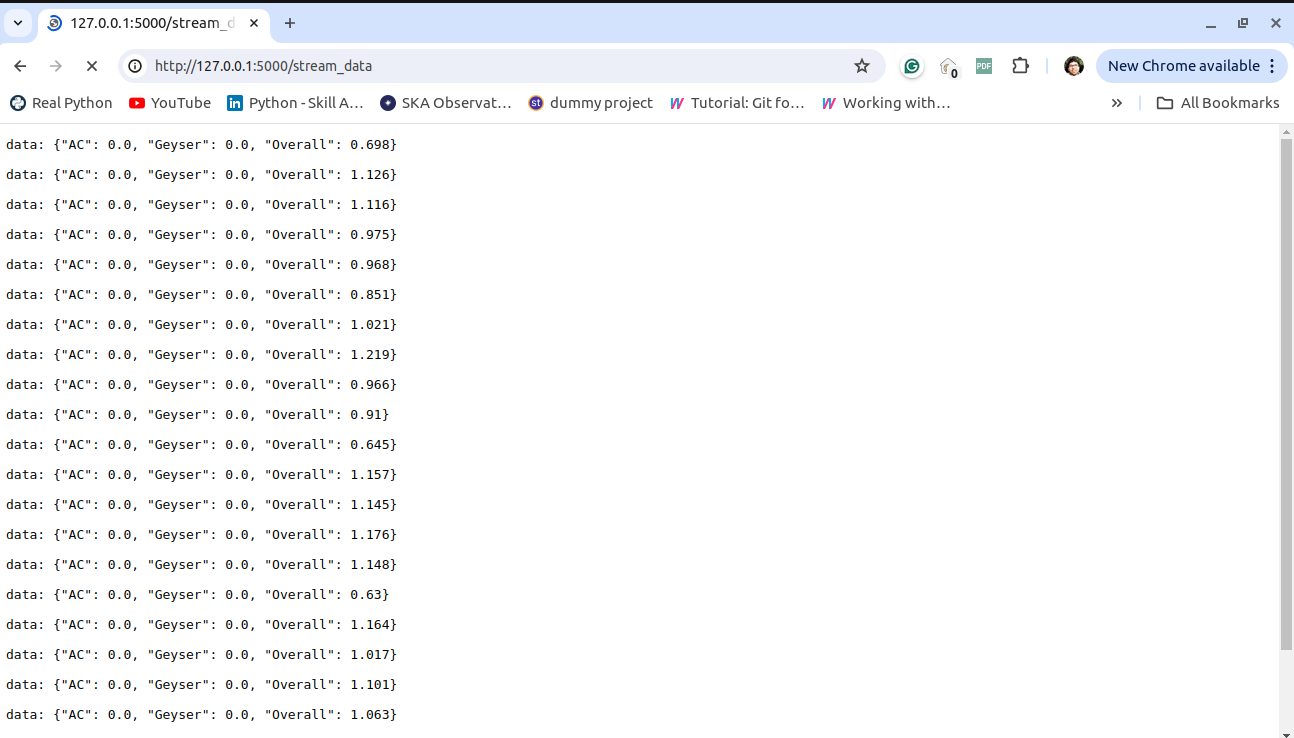
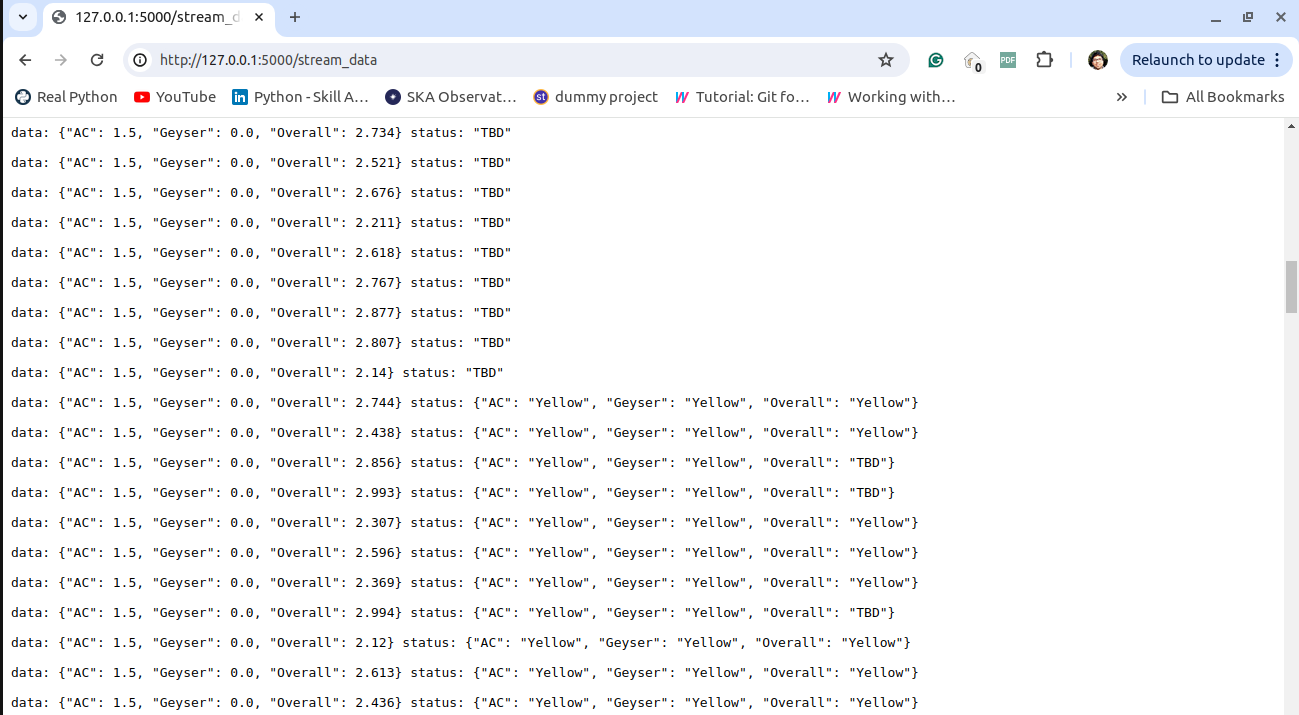
threading for stats calc and introduced status

diff --git a/app.py b/app.py
@@ -1,10 +1,10 @@
 from flask import Flask, request, Response, jsonify, redirect
-import subprocess
 import pandas as pd
 import numpy as np
 import time
 import json
 from scipy import stats
+import threading
 
 app = Flask(__name__)
 
@@ -16,67 +16,92 @@ data = pd.read_csv('server_data_homes/realistic_fake_energy_data_with_errors.csv
 # Load clean dataset as historical data for stats, outliers
 tmp = pd.read_csv('server_data_homes/realistic_fake_energy_data_without_errors.csv')
 
-# Global variables to store household and interval
+# Global variables to store household, interval, and stats_data
 current_household = None
 current_interval = None
+global_stats_data = None  # Initialize global stats_data
 
 def get_household_data(df, household):
-    """
-    Retrieves household-specific data from a DataFrame.
-
-    Parameters:
-    - df (pd.DataFrame): The DataFrame containing household data.
-    - household (str): The identifier for the household (e.g., 'A', 'B', 'C').
-
-    Returns:
-    - pd.DataFrame: Filtered DataFrame with columns for AC, Geyser, Overall.
-    """
     household_data = df[[f"{household}_AC", f"{household}_Geyser", f"{household}_Overall"]]
     household_data.columns = ['AC', 'Geyser', 'Overall']
     return household_data
 
-def stream_data():
-    """
-    Generator function to stream averaged household data.
+def calc_stats():
+    global global_stats_data
 
-    Yields:
-    - str: JSON-formatted string containing average values of AC, Geyser, Overall.
-    """
-    global start_index
-    household_data = get_household_data(data, current_household)
-    num_rows = len(household_data)
-    end_index = start_index + current_interval
-    while True:
-        recent_data = household_data.iloc[start_index:end_index]
+    clean_data = get_household_data(df=tmp, household=current_household)
+
+    q25 = clean_data.quantile(0.25)
+    median = clean_data.median()
+    q75 = clean_data.quantile(0.75)
+    iqr_data = clean_data[(clean_data >= q25) & (clean_data <= q75)].dropna()
+
+    if len(iqr_data) == 0:
+        global_stats_data = {'error': 'No valid data found for statistics calculation.'}
+        return
+
+    num_intervals = len(iqr_data) // current_interval
+
+    avg_values_list = []
+
+    for i in range(num_intervals):
+        start_idx = i * current_interval
+        end_idx = start_idx + current_interval
+        interval_data = iqr_data.iloc[start_idx:end_idx]
+        avg_values = interval_data.mean()
+        avg_values_list.append(avg_values)
+
+    average_sample = pd.DataFrame(avg_values_list, columns=['AC', 'Geyser', 'Overall'])
+
+    median_val = median.round(3).to_dict()
+    q25_val = q25.round(3).to_dict()
+    q75_val = q75.round(3).to_dict()
+
+    critical_values = {}
+    best_distributions = {}
+
+    for column_name in average_sample.columns:
+        column_data = average_sample[column_name]
         try:
-            average_values = recent_data.astype(float).mean().round(3).to_dict()
-            yield f"data: {json.dumps(average_values)}\n\n"
-        except (TypeError, ValueError):
-            yield f"data: {json.dumps({'error': 'Invalid data'})}\n\n"
-        finally:
-            if end_index >= num_rows:
-                end_index = 0  # Loop back to the beginning of the data
-            index = end_index
-            start_index = index
-            end_index = start_index + current_interval
+            best_distribution, best_params = fit_best_distribution(column_data)
+            best_distributions[column_name] = best_distribution.name if best_distribution is not None else None
+            if best_distribution is not None:
+                critical_value = best_distribution.ppf(0.99, *best_params)
+                critical_values[column_name] = round(critical_value, 3)
+            else:
+                critical_values[column_name] = None
+        except Exception as e:
+            global_stats_data = {'error': f"Error calculating statistics for {column_name}: {str(e)}"}
+            return
 
-            time.sleep(current_interval)
-            
+    global_stats_data = {
+        '25p': q25_val,
+        'median': median_val,
+        '75p': q75_val,
+        'rt_critical_value_0.01': critical_values,
+        'best_distribution': best_distributions
+    }
+
+def calc_stats_thread_func():
+
+    while global_stats_data is None:
+        try:
+            calc_stats()
+            time.sleep(300)  # Sleep for 5 minutes before recalculating
+        except Exception as e:
+            print(f"Error in calc_stats thread: {e}")
+            time.sleep(60)  # Retry every minute in case of error
+
+# Start the calc_stats thread on application startup
+calc_stats_thread = threading.Thread(target=calc_stats_thread_func)
+calc_stats_thread.start()
+
 @app.route('/', methods=['GET'])
 def run_st_app():
     return redirect("http://0.0.0.0:8501")
 
 @app.route('/stream_setup', methods=['POST'])
 def stream_setup():
-    """
-    Sets up streaming parameters (household, interval, and optionally start_index).
-
-    Expects JSON payload with 'household' and 'interval' parameters.
-    Optionally accepts 'start_index'.
-
-    Returns:
-    - json: Status message indicating success or error.
-    """
     global current_household, current_interval, start_index
     data = request.get_json()
     household = data.get('household')
@@ -103,16 +128,6 @@ def stream_setup():
     return jsonify({'status': 'Streaming setup successful'}), 200
 
 def fit_best_distribution(data):
-    """
-    Fits various statistical distributions to data and selects the best fit using the Kolmogorov-Smirnov test.
-
-    Parameters:
-    - data (pd.Series or pd.DataFrame): Data for which distributions are fitted.
-
-    Returns:
-    - scipy.stats.rv_continuous: Best-fit distribution.
-    - tuple: Parameters of the best-fit distribution.
-    """
     distributions = [stats.norm, stats.expon]  # Add more distributions as needed
     best_distribution = None
     best_p_value = np.inf
@@ -127,98 +142,54 @@ def fit_best_distribution(data):
             best_params = params
 
     return best_distribution, best_params
-    
+
 @app.route('/stream_qstats', methods=['GET'])
-def stream_stats():
-    """
-    Computes and streams statistics (median, std_dev, critical_value_0.01) for the current household.
+def stream_stats_route():
 
-    Returns:
-    - json: JSON object containing computed statistics or an error message.
-    """
-    clean_data = get_household_data(df=tmp, household=current_household)
+    if global_stats_data is not None:
+        return jsonify(global_stats_data)
 
-    # Select data between 25th and 75th percentiles
-    q25 = clean_data.quantile(0.25)
-    median = clean_data.median()
-    q75 = clean_data.quantile(0.75)
-    iqr_data = clean_data[(clean_data >= q25) & (clean_data <= q75)].dropna()
+    return jsonify({'error': 'Statistics not yet calculated. Try again later.'}), 404
 
-    if len(iqr_data) == 0:
-        return jsonify({'error': 'No valid data found for statistics calculation.'}), 404
+def stream_data():
+    global start_index
 
-    # Calculate the number of complete intervals in the data
-    num_intervals = len(iqr_data) // current_interval
+    household_data = get_household_data(data, current_household)
+    num_rows = len(household_data)
 
-    # Initialize lists to store average values
-    avg_values_list = []
-
-    # Iterate over each interval
-    for i in range(num_intervals):
-        # Calculate start and end indices for each interval
-        start_idx = i * current_interval
-        end_idx = start_idx + current_interval
-        
-        # Slice the interval data
-        interval_data = iqr_data.iloc[start_idx:end_idx]
-        
-        # Calculate average for each column
-        avg_values = interval_data.mean()
-        
-        # Append the averages to avg_values_list
-        avg_values_list.append(avg_values)
-
-    # Create a DataFrame from avg_values_list
-    average_sample = pd.DataFrame(avg_values_list, columns=['AC', 'Geyser', 'Overall'])
-    
-    # Calculate statistics
-    median_val = median.round(3).to_dict()
-    q25_val = q25.round(3).to_dict()
-    q75_val = q75.round(3).to_dict()
-    
-    # Initialize dictionaries to store results
-    critical_values = {}
-    best_distributions = {}
-
-    # Fit distributions and calculate critical values for each column separately
-    for column_name in average_sample.columns:
-        column_data = average_sample[column_name]
-        
-        try:
-            best_distribution, best_params = fit_best_distribution(column_data)
-            
-            # Store the best distribution name for the column
-            best_distributions[column_name] = best_distribution.name if best_distribution is not None else None
-            
-            # Calculate right-tailed critical region value at significance level of 0.01
-            if best_distribution is not None:
-                critical_value = best_distribution.ppf(0.99, *best_params)
-                critical_values[column_name] = round(critical_value, 3)
+    def status_checking(average_values, stats_data):
+        if stats_data is None:
+            return "TBD"
+        color = {}
+        for key, value in average_values.items():
+            if value < 0:
+                color[key] = "Red"
+            elif value < stats_data['25p'][key]:
+                color[key] = "Green"
+            elif value <= stats_data['75p'][key]:
+                color[key] = "Yellow"
+            elif value >= stats_data['rt_critical_value_0.01'][key]:
+                color[key] = "Red"
             else:
-                critical_values[column_name] = None
-        
-        except Exception as e:
-            # Handle exceptions by logging or returning an error response
-            return jsonify({'error': f"Error calculating statistics for {column_name}: {str(e)}"}), 404
-          
-    stats_data = {
-        '25p': q25_val,
-        'median': median_val,
-        '75p': q75_val,
-        'rt_critical_value_0.01': critical_values,
-        'best_distribution': best_distributions
-    }    
-    
-    return jsonify(stats_data)
+                color[key] = "TBD"
+        return color
+
+    while True:
+        recent_data = household_data.iloc[start_index:start_index + current_interval]
+        try:
+            average_values = recent_data.astype(float).mean().round(3).to_dict()
+            color = status_checking(average_values, global_stats_data)
+            yield f"data: {json.dumps(average_values)} status: {json.dumps(color)}\n\n"
+        except (TypeError, ValueError):
+            yield f"data: {json.dumps({'error': 'Invalid data'})} status: 'Critical Red'\n\n"
+        finally:
+            start_index += current_interval
+            if start_index >= num_rows:
+                start_index = 0
+            time.sleep(current_interval)
 
 @app.route('/stream_data', methods=['GET'])
 def stream_sse():
-    """
-    Initiates Server-Sent Events (SSE) for streaming averaged household data.
-
-    Returns:
-    - Response: SSE response object streaming averaged data.
-    """
     return Response(stream_data(), mimetype='text/event-stream')
 
 if __name__ == '__main__':

diff --git a/README.md b/README.md
@@ -7,9 +7,14 @@ Generation and Simulation of Time-Series Data from Smart-Meters (AC, Geyser, Ove
 
 This project involves generating realistic fake data for energy consumption in three different households and using a Flask application to stream this data to users. The households include:
 
-- Household A: A day worker's home.
-- Household B: An office.
-- Household C: A shift worker's home.
+- Household A: A day worker's home. AC is used during evening/night hours, Geyser is used in the morning and evening, 
+  and there is always some baseline overall energy consumption.
+
+- Household B: An office. AC is used during office hours (9 AM - 5 PM), Geyser is rarely used, and there is 
+  higher overall energy consumption during office hours.
+
+- Household C: A shift worker's home.AC and Geyser usage varies depending on the shift (night/day), and there is 
+  always some baseline overall energy consumption which varies with the shift.
 
 The types of energy consumption tracked are AC, Geyser, and Overall consumption.
 
@@ -119,7 +124,9 @@ This endpoint provides quick statistics from the noise-free data ("realistic_fak
 
   ![Right tail significance level](server_data_homes/images/rt_sig.jpg)
 
-  3. power value >= right side critical value : Red region critical err.
+  3. energy value <0 or energy value >= right side : Red region
+  
+  4. error : Critical Red.
 
 
 
